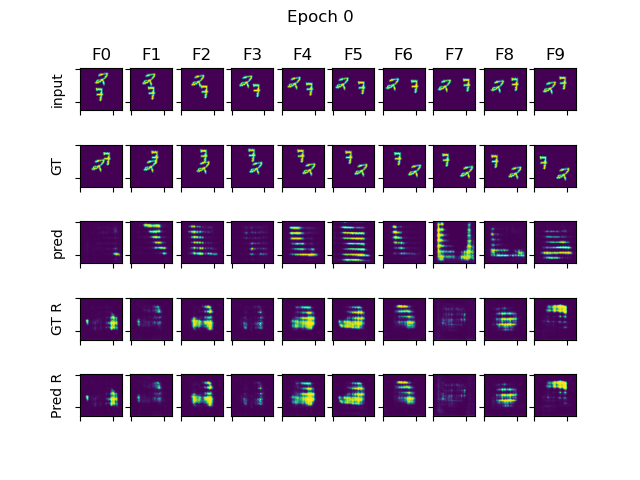
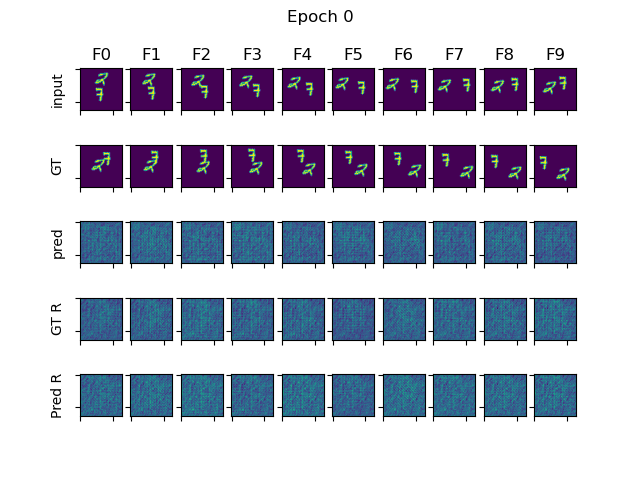
loss updates

Changed region(s): [[0.125, 0.4375, 0.9062, 0.5625], [0.125, 0.7812, 0.9062, 0.875], [0.125, 0.625, 0.9062, 0.7188]]

diff --git a/gan/models/exp_cocyclegan/cocycle_gan_model.py b/gan/models/exp_cocyclegan/cocycle_gan_model.py
@@ -394,16 +394,21 @@ class CoCycleGAN(LightningModule):
 
         # return loss + adversarial_loss
 
-        l2_lambda = 0.000001
+        l2_lambda = 0.0000001
         l2_norm = sum(p.abs().sum() for p in self.generator.parameters())
-        self.log("CoCycleLoss/l2_norm", l2_lambda * l2_norm, prog_bar=True)
-
+        # self.log("CoCycleLoss/l1_norm", l2_lambda * l2_norm, prog_bar=True)
+        # self.log("OneWayLoss/l1", F.smooth_l1_loss(pred_y, y), prog_bar=True)
+        # self.log(
+        #     "OneWayLoss/pred_y", (F.mse_loss(pred_y, y) + 10 * pred_y_l1), prog_bar=True
+        # )
         return (
             self.params.hparams["adversarial_loss_weight"] * adversarial_loss
             + self.params.hparams["l1_cyclic_loss_weight"]
             * (pred_cycle_l1 + pred_y_cycle_l1)
-            + self.params.hparams["l1_pred_loss_weight"] * (F.mse_loss(pred_y, y))
-            + self.params.hparams["l1_past_pred_loss_weight"] * (F.mse_loss(pred_x, x))
+            + self.params.hparams["l1_pred_loss_weight"]
+            * (F.mse_loss(pred_y, y) + pred_y_l1)
+            + self.params.hparams["l1_past_pred_loss_weight"]
+            * (F.mse_loss(pred_x, x) + pred_x_l1)
             + l2_norm * l2_lambda
             # + self.params.hparams["l1_pred_frame_one_loss_weight"]
             # * (pred_y_frame_one_loss + pred_x_frame_one_loss)
